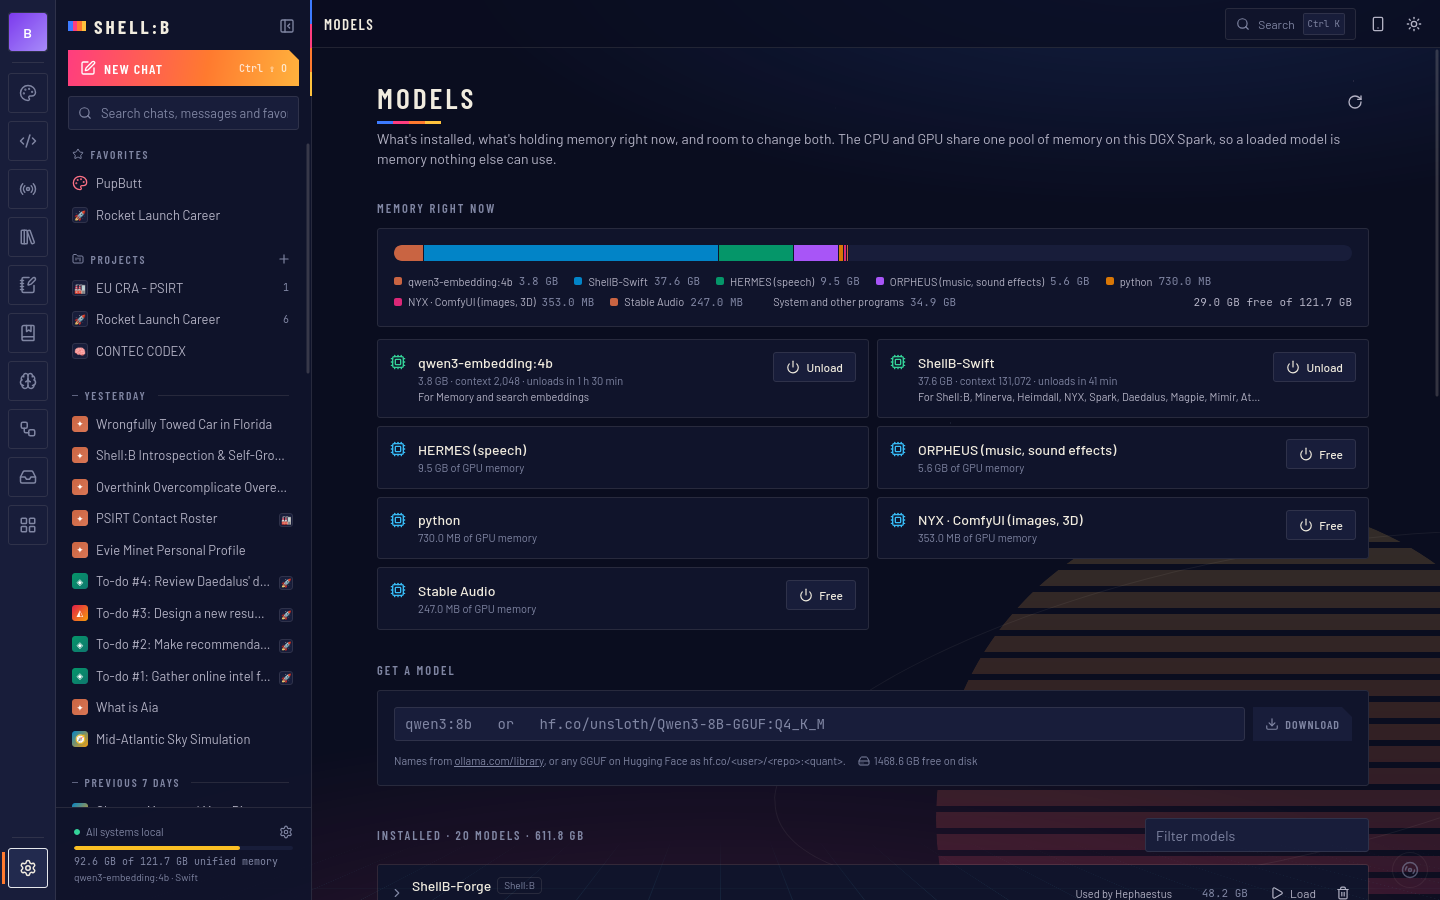
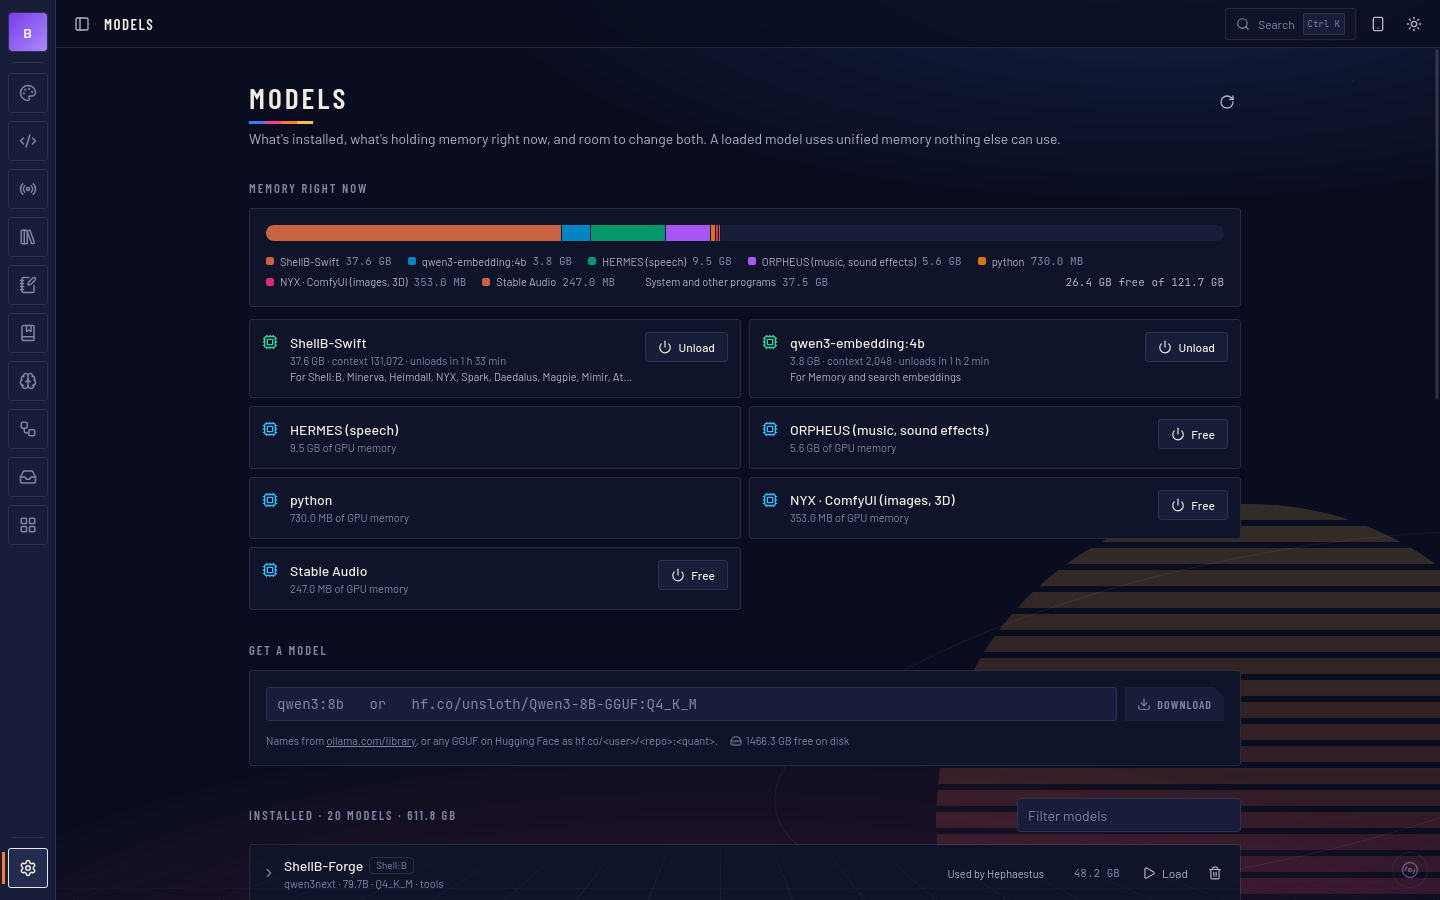
fix(docs): sanitize private chats from screenshots, make UI hardware-agnostic, and fix Mermaid diagram syntax

diff --git a/ui/src/App.tsx b/ui/src/App.tsx
@@ -146,7 +146,11 @@ export function App() {
   const [groupRefresh, setGroupRefresh] = useState(0);
   const [focusTick, setFocusTick] = useState(0); // bumped by newChat so the composer refocuses even when already on a blank chat
   const pendingGroup = useRef<string | null>(null); // project the next new chat is created in
-  const [sidebar, setSidebar] = useState(() => window.innerWidth >= 768);
+  const [sidebar, setSidebar] = useState(() =>
+    window.innerWidth >= 768 &&
+    !/[?&](?:sidebar=0|nosidebar|shot)\b/.test(location.search) &&
+    (!location.hash || /^#\/(?:c\/|$)/.test(location.hash))
+  );
   const [panel, setPanel] = useState<{ id: string; version?: number } | null>(null);
   const [modal, setModal] = useState<null | 'agents' | 'tools' | 'settings' | 'palette'>(null);
   const [formFactorOpen, setFormFactorOpen] = useState(false);
@@ -817,7 +821,7 @@ export function App() {
               onVoiceMode={voiceMode ? undefined : () => setVoiceMode(true)}
             />
             <div className="text-center text-[10px] text-[var(--text-muted)] mt-1.5">
-              {activeModel}{agent.cloud ? '' : ' on this DGX Spark'} · Shell:B can make mistakes; check anything important.
+              {activeModel}{agent.cloud ? '' : ' · local'} · Shell:B can make mistakes; check anything important.
             </div>
           </div>
         </div>

diff --git a/ui/src/components/Models.tsx b/ui/src/components/Models.tsx
@@ -104,7 +104,7 @@ export function Models({ busyTurns }: { busyTurns: number }) {
             <h1 className="text-2xl font-semibold tracking-tight flex-1">Models</h1>
             <button className={btn.icon} onClick={load} title="Refresh"><RotateCw className="w-4 h-4" /></button>
           </div>
-          <p className="text-sm text-[var(--text-secondary)]">What's installed, what's holding memory right now, and room to change both. The CPU and GPU share one pool of memory on this DGX Spark, so a loaded model is memory nothing else can use.</p>
+          <p className="text-sm text-[var(--text-secondary)]">What's installed, what's holding memory right now, and room to change both. A loaded model uses unified memory nothing else can use.</p>
           {error && <div className="mt-3 flex items-start gap-2 text-xs text-red-400"><AlertTriangle className="w-3.5 h-3.5 mt-px shrink-0" />{error}</div>}
         </div>
 

diff --git a/ui/src/components/Panels.tsx b/ui/src/components/Panels.tsx
@@ -342,7 +342,7 @@ function SystemTab({ status, models, onOpenTab }: { status?: Status; models: Mod
           </table>
         </div>
       </div>
-      <div className="text-[11px] text-[var(--text-muted)]">Shell:B Web v{status?.version} · everything above runs on this DGX Spark.</div>
+      <div className="text-[11px] text-[var(--text-muted)]">Shell:B Web v{status?.version} · everything above runs locally on this system.</div>
     </div>
   );
 }

diff --git a/README.md b/README.md
@@ -126,17 +126,17 @@ address (`_ShortNameRedirect` in app.py). Check with `tailscale serve status`; r
 
 ```mermaid
 flowchart TD
-    User(["Client Browser / Tailscale Device"]) <-->|Tailscale HTTPS :8443 / Loopback :8200| Web["Shell:B Web Server\n(FastAPI / React 19 / Uvicorn)"]
+    User(["Client Browser / Tailscale Device"]) <-->|"Tailscale HTTPS :8443 / Loopback :8200"| Web["Shell:B Web Server<br/>FastAPI / React 19 / Uvicorn"]
     
-    subgraph Local Hardware & Service Stack
-        Web <-->|Streaming Tokens & Prompts| Ollama["Ollama Serving\n(Qwen3.6 / Swift / Coder)"]
-        Web <-->|Isolated Execution (/work)| Sandbox["Docker Sandbox\n(--network none)"]
-        Web <-->|Private Web Search| Vassago["VASSAGO\n(SearXNG :8080)"]
-        Web <-->|Whisper VAD & Kokoro TTS| Hermes["HERMES Voice\n(Port :8001)"]
-        Web <-->|MusicGen / AudioCraft| Orpheus["ORPHEUS Audio\n(Port :8002)"]
-        Web <-->|FLUX / ComfyUI Pipelines| Nyx["NYX Visuals\n(Port :8188)"]
-        Web <-->|ZIM Offline Wikipedia & Maps| Kiwix["Kiwix & Protomaps\n(Local Archives)"]
-        Web <-->|FTS5 Search, Vectors, State| DB[("SQLite DB\nshellb.db + Embeddings")]
+    subgraph LocalStack ["Local Hardware and Service Stack"]
+        Web <-->|"Streaming Tokens and Prompts"| Ollama["Ollama Serving<br/>Qwen3.6 / Swift / Coder"]
+        Web <-->|"Isolated Execution: /work"| Sandbox["Docker Sandbox<br/>network none"]
+        Web <-->|"Private Web Search"| Vassago["VASSAGO<br/>SearXNG :8080"]
+        Web <-->|"Whisper VAD and Kokoro TTS"| Hermes["HERMES Voice<br/>Port :8001"]
+        Web <-->|"MusicGen and AudioCraft"| Orpheus["ORPHEUS Audio<br/>Port :8002"]
+        Web <-->|"FLUX and ComfyUI Pipelines"| Nyx["NYX Visuals<br/>Port :8188"]
+        Web <-->|"ZIM Offline Wikipedia and Maps"| Kiwix["Kiwix and Protomaps<br/>Local Archives"]
+        Web <-->|"FTS5 Search, Vectors, State"| DB[("SQLite DB<br/>shellb.db + Embeddings")]
     end
 ```
 
